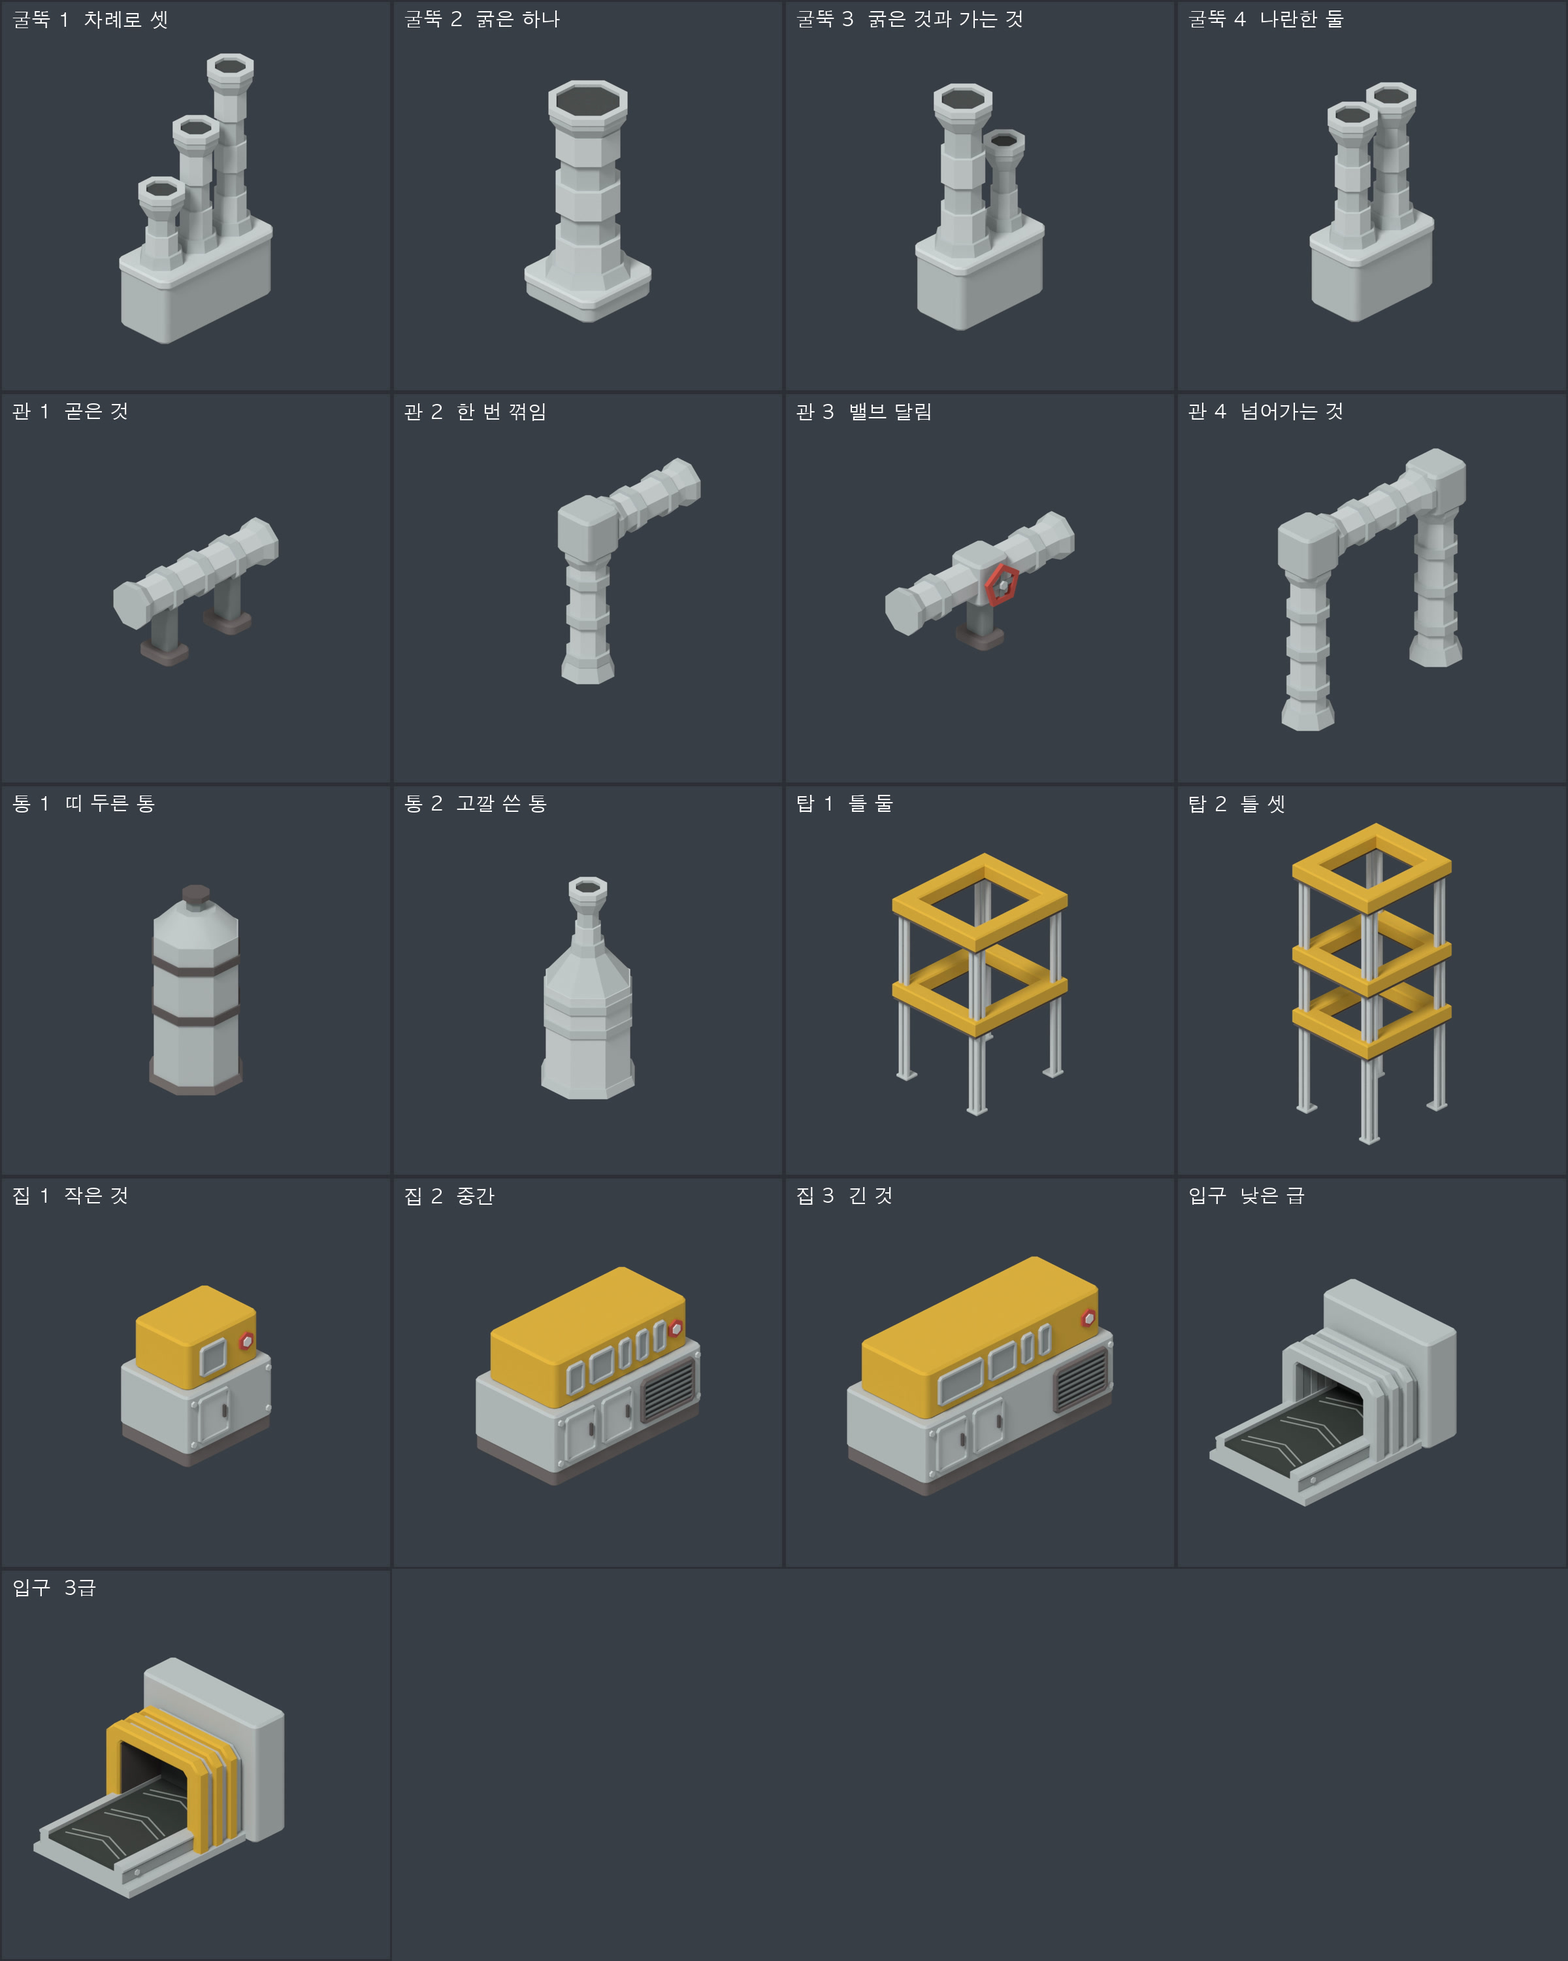
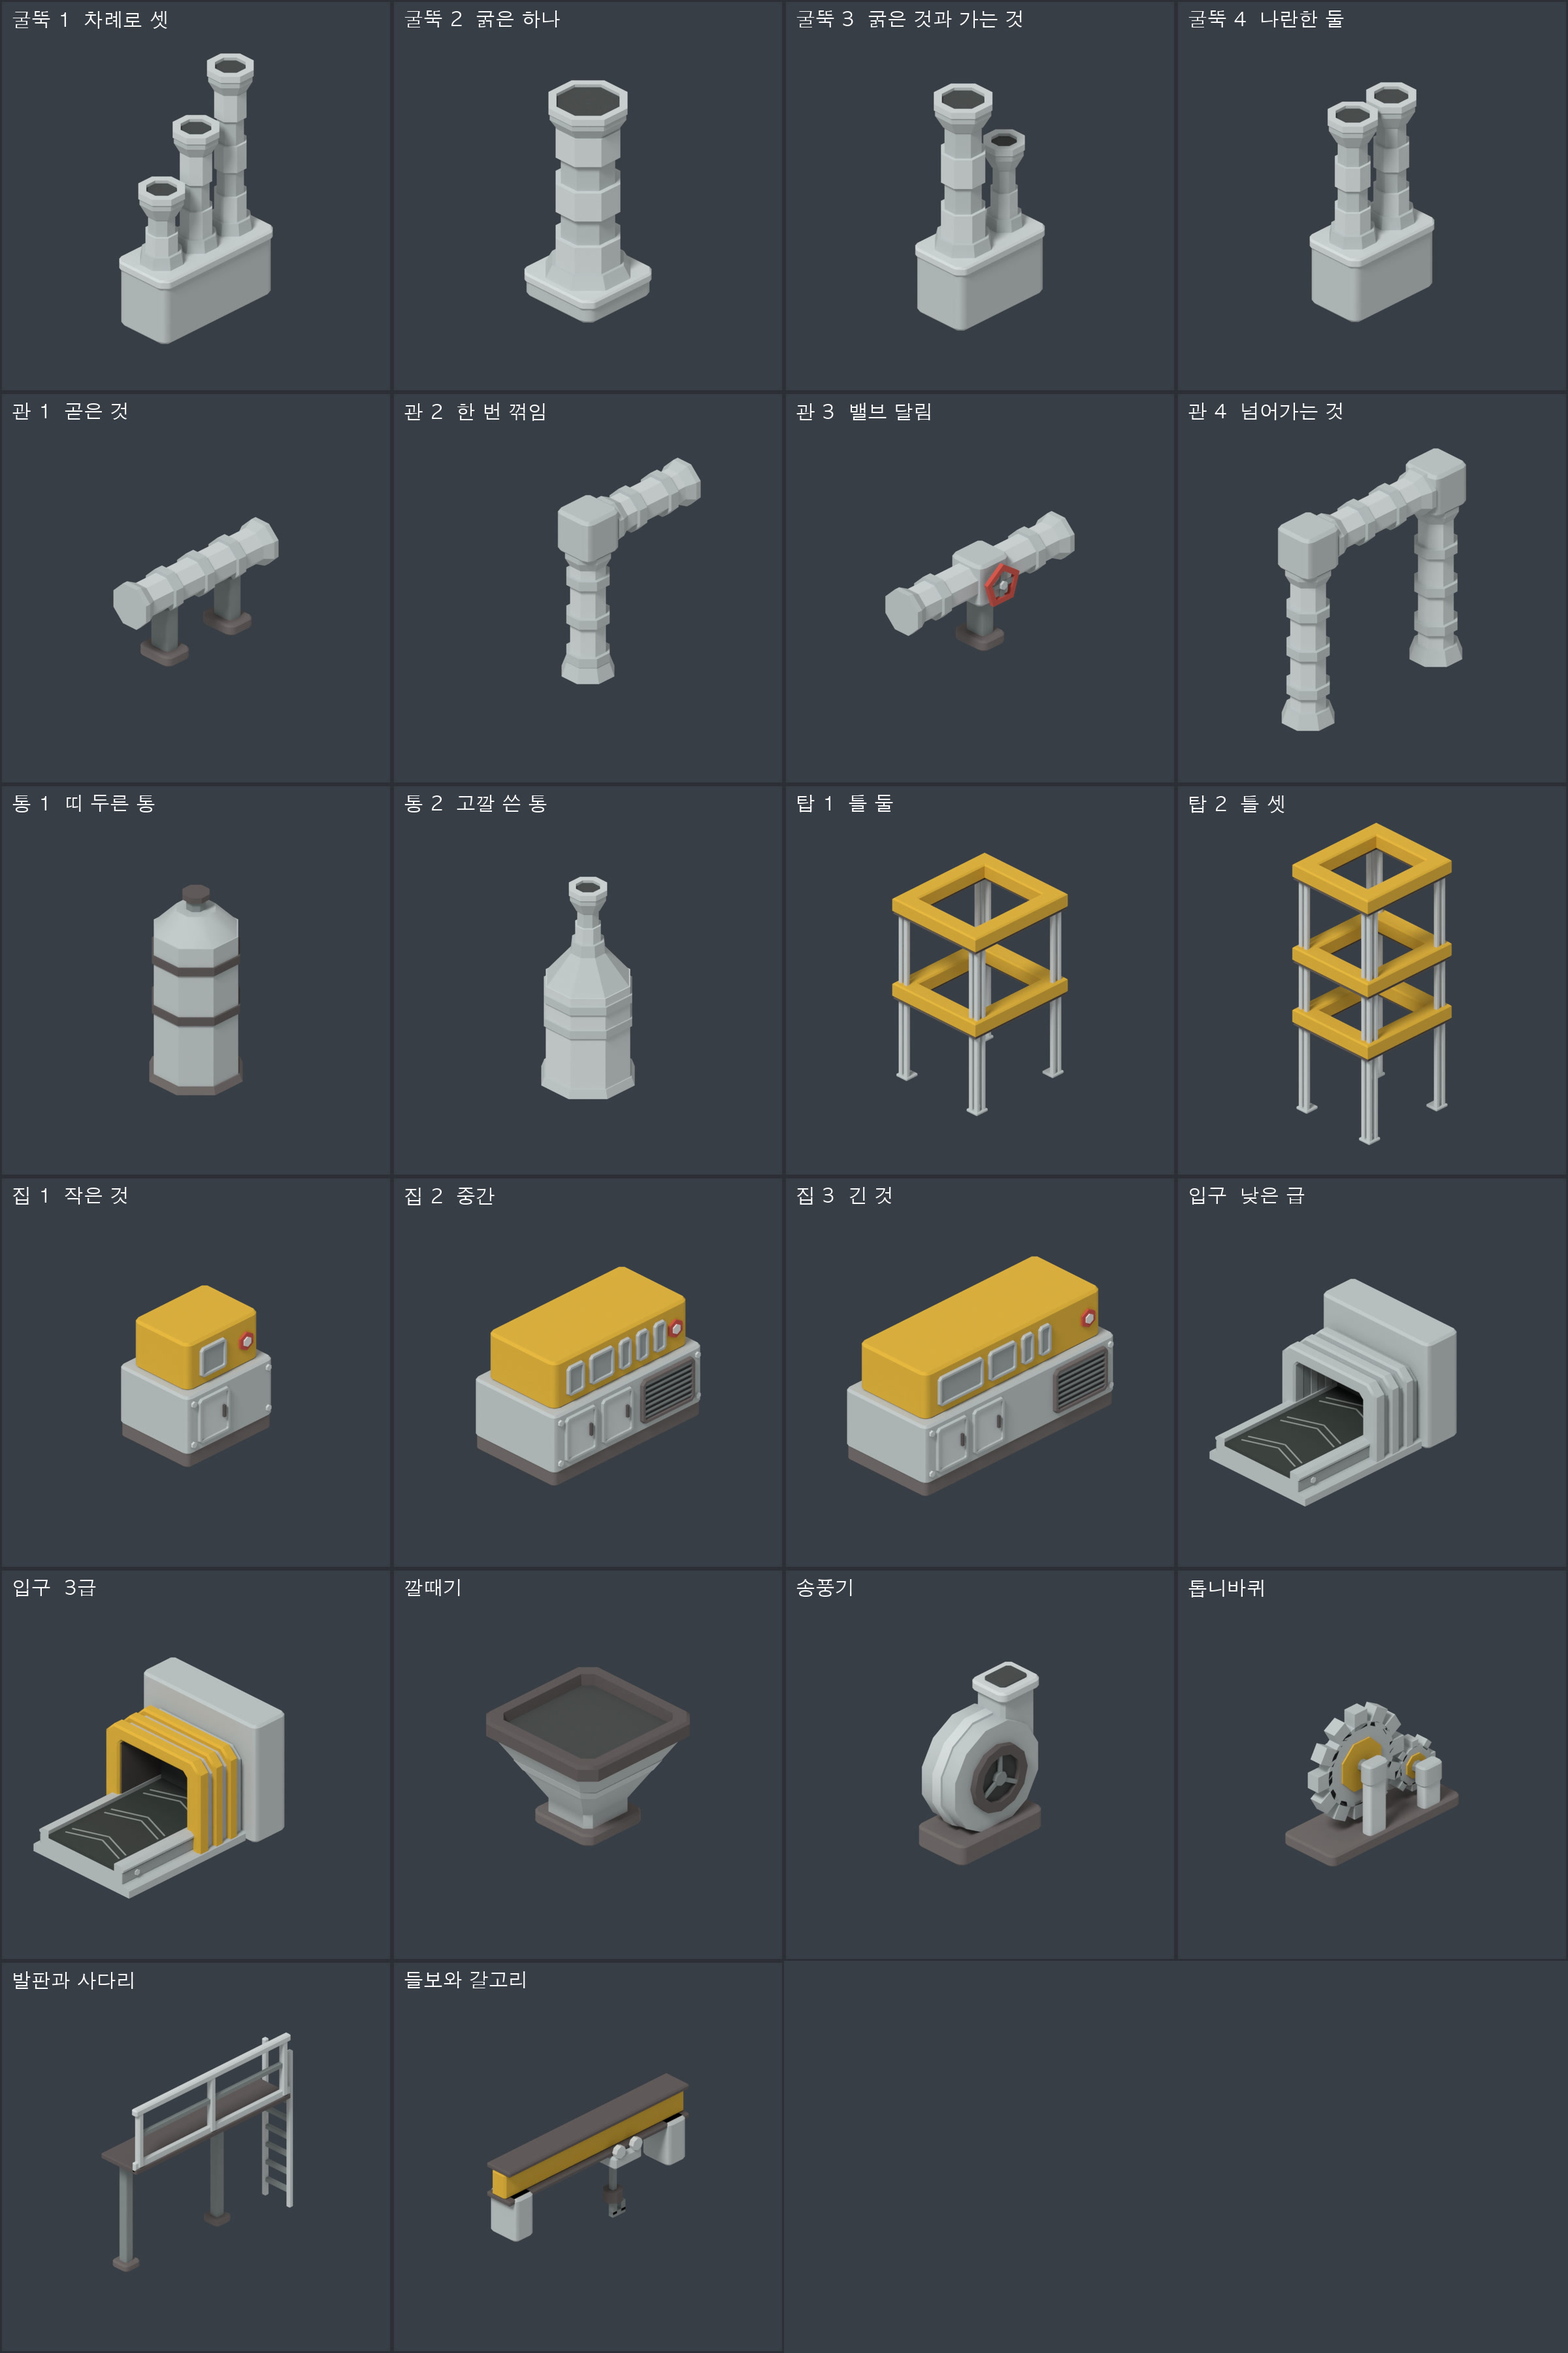
Kit: five more pieces besides stacks and pipes
A hopper, a blower with a round casing, a pair of gears in mesh on
bearing blocks, a walkway with a rail and a ladder, and a hoist beam
with a trolley and hook. The developer asked what else could complicate
a machine and said to make the five suggested. Not yet judged.

Claude-Session: https://claude.ai/code/session_01W5XMnWw2PL68atZgiMiQxw

diff --git a/art/v2/kitset.py b/art/v2/kitset.py
@@ -8,7 +8,8 @@
 #   drums    k_drum_band, k_drum_cone
 #   towers   k_tower2, k_tower3
 #   houses   k_house_s, k_house_m, k_house_l
-#   mouths   k_mouth_low (the ribbed folding cover of the low grades), k_mouth3 (grade 3)
+#   mouths   k_mouth_low, k_mouth3 (both built by mouth())
+#   others   k_hopper, k_blower, k_gears, k_walk, k_hoist (what complicates a machine besides stacks and pipes)
 #
 # Joints: a fat duct is 0.105 in radius everywhere, of whatever length is needed, carries a ring every 0.26
 # along it (never plain), and swells into a socket at each end that meets another part;
@@ -343,6 +344,99 @@ def k_mouth3(m, paint=None):
         _stub_wall(m, 0.60, 1.0)
 
 
+def k_hopper(m, z0=0.0):
+    """Hopper: a funnel that spreads upward from a neck to a wide rimmed mouth with a real hollow, a band
+    round its waist, on a collar. Where material goes in and gathers."""
+    s2.slab(m, 0.21, 0.21, z0 - 0.01, z0 + 0.06, 0.04, s2.T, bevel=0.012)
+    s2.tower(m, [(0.16, 0.16, 0.035, z0 + 0.05), (0.16, 0.16, 0.035, z0 + 0.14), (0.38, 0.38, 0.07, z0 + 0.52), (0.38, 0.38, 0.07, z0 + 0.535)], s2.G)
+    s2.tower(m, [(0.262, 0.262, 0.052, z0 + 0.31), (0.297, 0.297, 0.058, z0 + 0.37)], s2.LT)            # the band, on the slope
+    s2.shell(m, [(0.405, 0.405, 0.075, z0 + 0.52), (0.405, 0.405, 0.075, z0 + 0.59), (0.39, 0.39, 0.07, z0 + 0.605),
+                 (0.33, 0.33, 0.05, z0 + 0.605), (0.315, 0.315, 0.045, z0 + 0.52)], s2.TD)
+    s2.tower(m, [(0.322, 0.322, 0.047, z0 + 0.515), (0.322, 0.322, 0.047, z0 + 0.545)], s2.SLIT)
+
+
+def k_blower(m, z0=0.0):
+    """Blower: a round casing standing on edge on a base, its outlet rising square from one side to a flange
+    a duct can start from, its intake a rimmed hole in the face with a hub and three arms."""
+    zc = z0 + 0.40
+    with m.at((0, 0, 0)):
+        s2.slab(m, 0.30, 0.17, z0, z0 + 0.12, 0.03, s2.T, bevel=0.012)
+    m.cyl(0.31, 0.24, (0, 0, zc), s2.G, seg=12, axis="Y", rot=(0, s2.rad(15), 0))
+    m.cyl(0.325, 0.06, (0, 0, zc), s2.LT, seg=12, axis="Y", rot=(0, s2.rad(15), 0))                    # a band round the casing's edge
+    m.box((0.24, 0.20, 0.36), (0.185, 0, zc + 0.24), s2.G, bevel=0.02)                                   # the outlet, rising off the casing's side
+    with m.at((0.185, 0, 0)):
+        s2.slab(m, 0.145, 0.125, zc + 0.40, zc + 0.46, 0.03, s2.LT, bevel=0.012)
+        s2.slab(m, 0.095, 0.075, zc + 0.44, zc + 0.47, 0.02, s2.SLIT, bevel=0.004)
+    with s2.on_side(m, -1, -0.12, zc, xc=0.0):                # the intake
+        s2.ring_round(m, 0.19, 0.135, -0.004, 0.035, s2.TD, seg=12)
+        m.cyl(0.14, 0.01, (0, 0, 0.004), s2.SLIT, seg=12)
+        m.cyl(0.04, 0.03, (0, 0, 0.02), s2.ST, seg=8)
+        for k in range(3):
+            a_ = s2.rad(90 + 120 * k)
+            m.box((0.022, 0.12, 0.014), (0.085 * math.cos(a_), 0.085 * math.sin(a_), 0.024), s2.ST, rot=a_ - math.pi / 2)
+
+
+def k_gears(m, paint=None, z0=0.0):
+    """Gears: a big toothed wheel and a small one in mesh, each on a shaft between two bearing blocks, on a
+    base. The one part that is seen to turn."""
+    paint = paint or s2.PY
+    s2.slab(m, 0.56, 0.22, z0, z0 + 0.08, 0.03, s2.T, bevel=0.012)
+    for x, zc, r, teeth in ((-0.14, z0 + 0.50, 0.36, 12), (0.33, z0 + 0.30, 0.17, 8)):
+        m.gear(r, 0.09, (x, 0, zc), s2.G, teeth=teeth, axis="Y")
+        m.cyl(r * 0.50, 0.11, (x, 0, zc), paint, seg=8, axis="Y", rot=(0, s2.rad(22.5), 0))             # a painted hub
+        m.cyl(0.04, 0.40, (x, 0, zc), s2.ST, seg=8, axis="Y", rot=(0, s2.rad(22.5), 0))                 # the shaft
+        for sy in s2.SIDES:                                   # a bearing block each side, on a pedestal
+            with m.at((x, sy * 0.16, 0)):
+                s2.slab(m, 0.075, 0.04, z0 + 0.06, zc - 0.05, 0.015, s2.LT, bevel=0.008)
+                s2.slab(m, 0.085, 0.05, zc - 0.07, zc + 0.07, 0.02, s2.G, bevel=0.012)
+
+
+def k_walk(m, L=1.4, z=0.85):
+    """Walkway: a deck on two legs with a kerb, a rail and a mid-rail on stout posts along its outer side,
+    and a ladder down to the ground at one end. The way up to look after a machine, and a measure of
+    how big the machine is."""
+    m.box((L, 0.32, 0.04), (0, 0, z), s2.TD, bevel=0.008)
+    m.box((L, 0.03, 0.07), (0, -0.138, z + 0.03), s2.LT, bevel=0.006)                                    # the kerb
+    for x in (-L / 2 + 0.05, 0.0, L / 2 - 0.05):
+        m.box((0.045, 0.045, 0.40), (x, -0.138, z + 0.22), s2.LT, bevel=0.008)
+    m.box((L, 0.05, 0.05), (0, -0.138, z + 0.43), s2.LT, bevel=0.01)
+    m.box((L - 0.06, 0.03, 0.03), (0, -0.138, z + 0.25), s2.ST)
+    for x in (-L / 2 + 0.16, L / 2 - 0.42):                   # the legs
+        with m.at((x, 0.09, 0)):
+            s2.slab(m, 0.07, 0.07, 0.0, 0.05, 0.02, s2.T, bevel=0.01)
+            s2.slab(m, 0.035, 0.035, 0.04, z - 0.015, 0.01, s2.ST, bevel=0.006)
+    xl = L / 2 + 0.035                                        # the ladder, at the +x end
+    for sy in s2.SIDES:
+        m.box((0.035, 0.035, z + 0.30), (xl, sy * 0.11, (z + 0.30) / 2), s2.LT, bevel=0.006)
+    n = int((z - 0.10) / 0.13)
+    for k in range(n + 1):
+        m.box((0.028, 0.22, 0.028), (xl, 0, 0.12 + k * 0.13), s2.ST)
+
+
+def k_hoist(m, paint=None, L=1.3, z0=0.0):
+    """Hoist: a painted beam between two brackets, dark flanges above and below it, a trolley under it, a
+    chain and a hook. For changing what is heavy; it stands across the top of a tower."""
+    paint = paint or s2.PY
+    zb = z0 + 0.32
+    for x in (-L / 2 + 0.10, L / 2 - 0.10):
+        with m.at((x, 0, 0)):
+            s2.slab(m, 0.07, 0.10, z0, zb - 0.07, 0.02, s2.G, bevel=0.012)
+    m.box((L, 0.10, 0.15), (0, 0, zb), paint, bevel=0.012)
+    for dz in (-0.085, 0.085):
+        m.box((L, 0.17, 0.03), (0, 0, zb + dz), s2.TD, bevel=0.008)
+    xt = 0.18                                                 # the trolley
+    m.box((0.20, 0.23, 0.07), (xt, 0, zb - 0.135), s2.G, bevel=0.012)
+    for sx in s2.SIDES:
+        for sy in s2.SIDES:
+            m.cyl(0.035, 0.03, (xt + sx * 0.06, sy * 0.105, zb - 0.075), s2.LT, seg=8, axis="Y")
+    m.box((0.028, 0.028, 0.20), (xt, 0, zb - 0.265), s2.ST)
+    with m.at((xt, 0, 0)):
+        s2.octa(m, 0.05, 0.05, zb - 0.42, zb - 0.36, s2.TD)
+    m.box((0.03, 0.03, 0.09), (xt, 0, zb - 0.46), s2.ST)     # the hook: a shank, a bend, a tip
+    m.box((0.09, 0.03, 0.03), (xt + 0.03, 0, zb - 0.505), s2.ST)
+    m.box((0.03, 0.03, 0.06), (xt + 0.06, 0, zb - 0.475), s2.ST)
+
+
 def k_pipe_join(m):
     """Not a piece, and not a layout to copy: only the two cases of a pipe meeting another part, kept apart
     so that neither crowds the other. In front, a long pipe between two plenums; behind, a short one
@@ -380,6 +474,11 @@ KIT = [
     ("k_house_s", k_house_s, "집 1  작은 것", 3.2, 0.55),
     ("k_house_m", k_house_m, "집 2  중간", 3.2, 0.55),
     ("k_house_l", k_house_l, "집 3  긴 것", 3.2, 0.55),
+    ("k_hopper", k_hopper, "깔때기", 2.0, 0.32),
+    ("k_blower", k_blower, "송풍기", 2.0, 0.42),
+    ("k_gears", k_gears, "톱니바퀴", 2.4, 0.42),
+    ("k_walk", k_walk, "발판과 사다리", 2.5, 0.62),
+    ("k_hoist", k_hoist, "들보와 갈고리", 2.0, 0.22),
     ("k_mouth_low", k_mouth_low, "입구  낮은 급", 2.9, 0.45),
     ("k_mouth3", k_mouth3, "입구  3급", 2.9, 0.45),
 ]

diff --git a/docs/modeling-principles.md b/docs/modeling-principles.md
@@ -54,6 +54,7 @@
 - **하는 일을 그림처럼 보여 주려 애쓰지 않습니다 [개발자 결정, 2026-10-09].** 위의 "그 기계가 하는 일이 보이게"를 제철소에 적용해 실제 공정(고로, 전로, 도가니, 전기로)을 차례로 따져 봤고, 개발자가 실제 전기로의 모습을 찾아본 뒤 "ㅈㄴ 짜치게 생겼다"며 접었습니다. 결론: "그냥 우리도 적당히 복잡하고 적당히 심플하게 생긴 기계 안에 들어가서 강철이 되어 나오는 그런 느낌으로 가야겠다." 기계는 한 대씩 따로 설계하되, 속에서 벌어지는 일을 겉으로 재현하지는 않습니다. 재료가 들어가고 물건이 나오는, 그럴듯한 기계이면 됩니다. 복잡함의 기준은 확정된 `former5`입니다.
 - **관은 밋밋하게 두지 않습니다. 모든 관에 고리가 일정한 간격으로 되풀이됩니다 [개발자 지시, 2026-10-09].** "모든 관은 항상 밋밋하지 않게 반복적인 패턴이 있게. 지금도 관에 링 같은 애들이 반복되는 것처럼." 굵은 관은 누운 것이든 선 것이든 0.26칸마다 고리 하나를 두릅니다(`kitset.PITCH`, `_run_x`, `_run_y`, `_riser`). 밸브처럼 다른 것이 앉은 자리만 건너뜁니다. 굴뚝은 마디가 번갈아 굵어지는 것이 그 되풀이입니다(`fat_stack`).
 - **관의 길이는 필요한 만큼 늘고 줄며, 관의 끝은 다른 부품과 만나는 자리에서 조금 굵어집니다 [개발자 지시, 2026-10-09].** 관은 길이를 받는 함수 하나로 짓습니다(`kitset._run`): 고리는 길이에 맞춰 0.26칸 간격으로 저절로 놓이고, 양 끝은 벌어지며 테(플랜지)로 끝납니다. 이음매가 만나는 부품보다 커서는 안 됩니다. 처음에는 이음매가 모음통의 테와 통의 띠를 파고들었고, 통의 한 면보다 넓어 모서리에 걸쳤고, 짧은 관은 이음매만 남았습니다(개발자: "이건 너가 봐도 좀 이상하지 않니?"). 그래서: 모음통은 이음매가 테 밑 맨 벽에 다 들어가도록 높이 0.42, 관이 들어오는 높이 0.20. 통은 굵게(반지름 0.28) 하고 띠는 위쪽에 두며, 관이 들어오는 자리에는 이음매보다 조금 큰 받침판을 댑니다(`_port`). 0.42칸보다 짧은 관은 벌어지지 않고 테만 답니다. 관의 끝은 만나는 부품 속으로 0.012칸 들어갑니다.
+- **굴뚝과 관 말고 기계를 복잡하게 만드는 것들.** 묶음에 다섯을 더했습니다(`kitset.py`): 깔때기(`k_hopper`), 달팽이 송풍기(`k_blower`), 맞물린 톱니바퀴(`k_gears`), 발판과 난간과 사다리(`k_walk`), 들보와 갈고리(`k_hoist`). 평가 전입니다. 이 종류는 기계 하나에 한두 가지만 쓰고, 되도록 그 기계의 주인공으로 씁니다(분쇄기는 톱니, 세척기는 물통처럼). 며칠 전 플라이휠·모터·벨트 덮개·기름통을 한 기계에 다 넣은 것(`former4`)은 버려졌습니다.
 - **입구의 돌기는 굵고 적게, 모서리는 깎아서 부드럽게. 낮은 급의 입구는 더 낮게 [개발자 지시, 2026-10-09].** 가는 주름 여섯이 아니라 굵은 돌기 셋에 사이를 한 칸씩 띄웁니다("2개씩 합치고 한 칸을 띄우는 방식으로... 적당히 굵고 적은 느낌"). 돌기의 모서리는 0.016칸 깎습니다. 낮은 급은 회색 돌기에 높이 0.70, 3급은 칠한 돌기에 높이 0.82이고 사이는 회색 소매입니다. 입구는 `kitset.mouth(m, 벽, 방향, 급)` 하나로만 짓습니다. 예전의 `d.cover`와 `set2.mouth3`은 옛 모델을 위해 남겨 둔 것이고 새 기계에는 쓰지 않습니다.
 - **띠 두른 통에는 관을 잇지 않습니다 [개발자 지시, 2026-10-09].** 통은 혼자 서 있는 물건입니다("띠 두른 통에 왜 자꾸 배관을 연결하는데"). 관은 모음통끼리, 또는 모음통과 기계 몸통 사이에 놓습니다.
 - **입구는 급에 상관없이 깊고 길게, 그리고 난간만큼 넓게 [개발자 지시, 2026-10-09].** 낮은 급의 주름 덮개는 주름 여섯(깊이 0.47), 3급의 문틀은 깊이 0.46(앞에 칠한 문틀 둘, 회색 소매, 벽에 칠한 띠 하나). 둘 다 폭을 난간과 같게 해서 난간이 입구의 다리 속으로 곧장 들어갑니다. 그래서 입구 옆 난간 위에 따로 세운 것들(솟은 귀, 난간을 감싼 고리)은 없습니다. 개발자가 그림에 표시한 "이상한 부분"이 이것들이라고 읽고 뺐습니다(표시가 내 쪽에 안 보여 추정).
